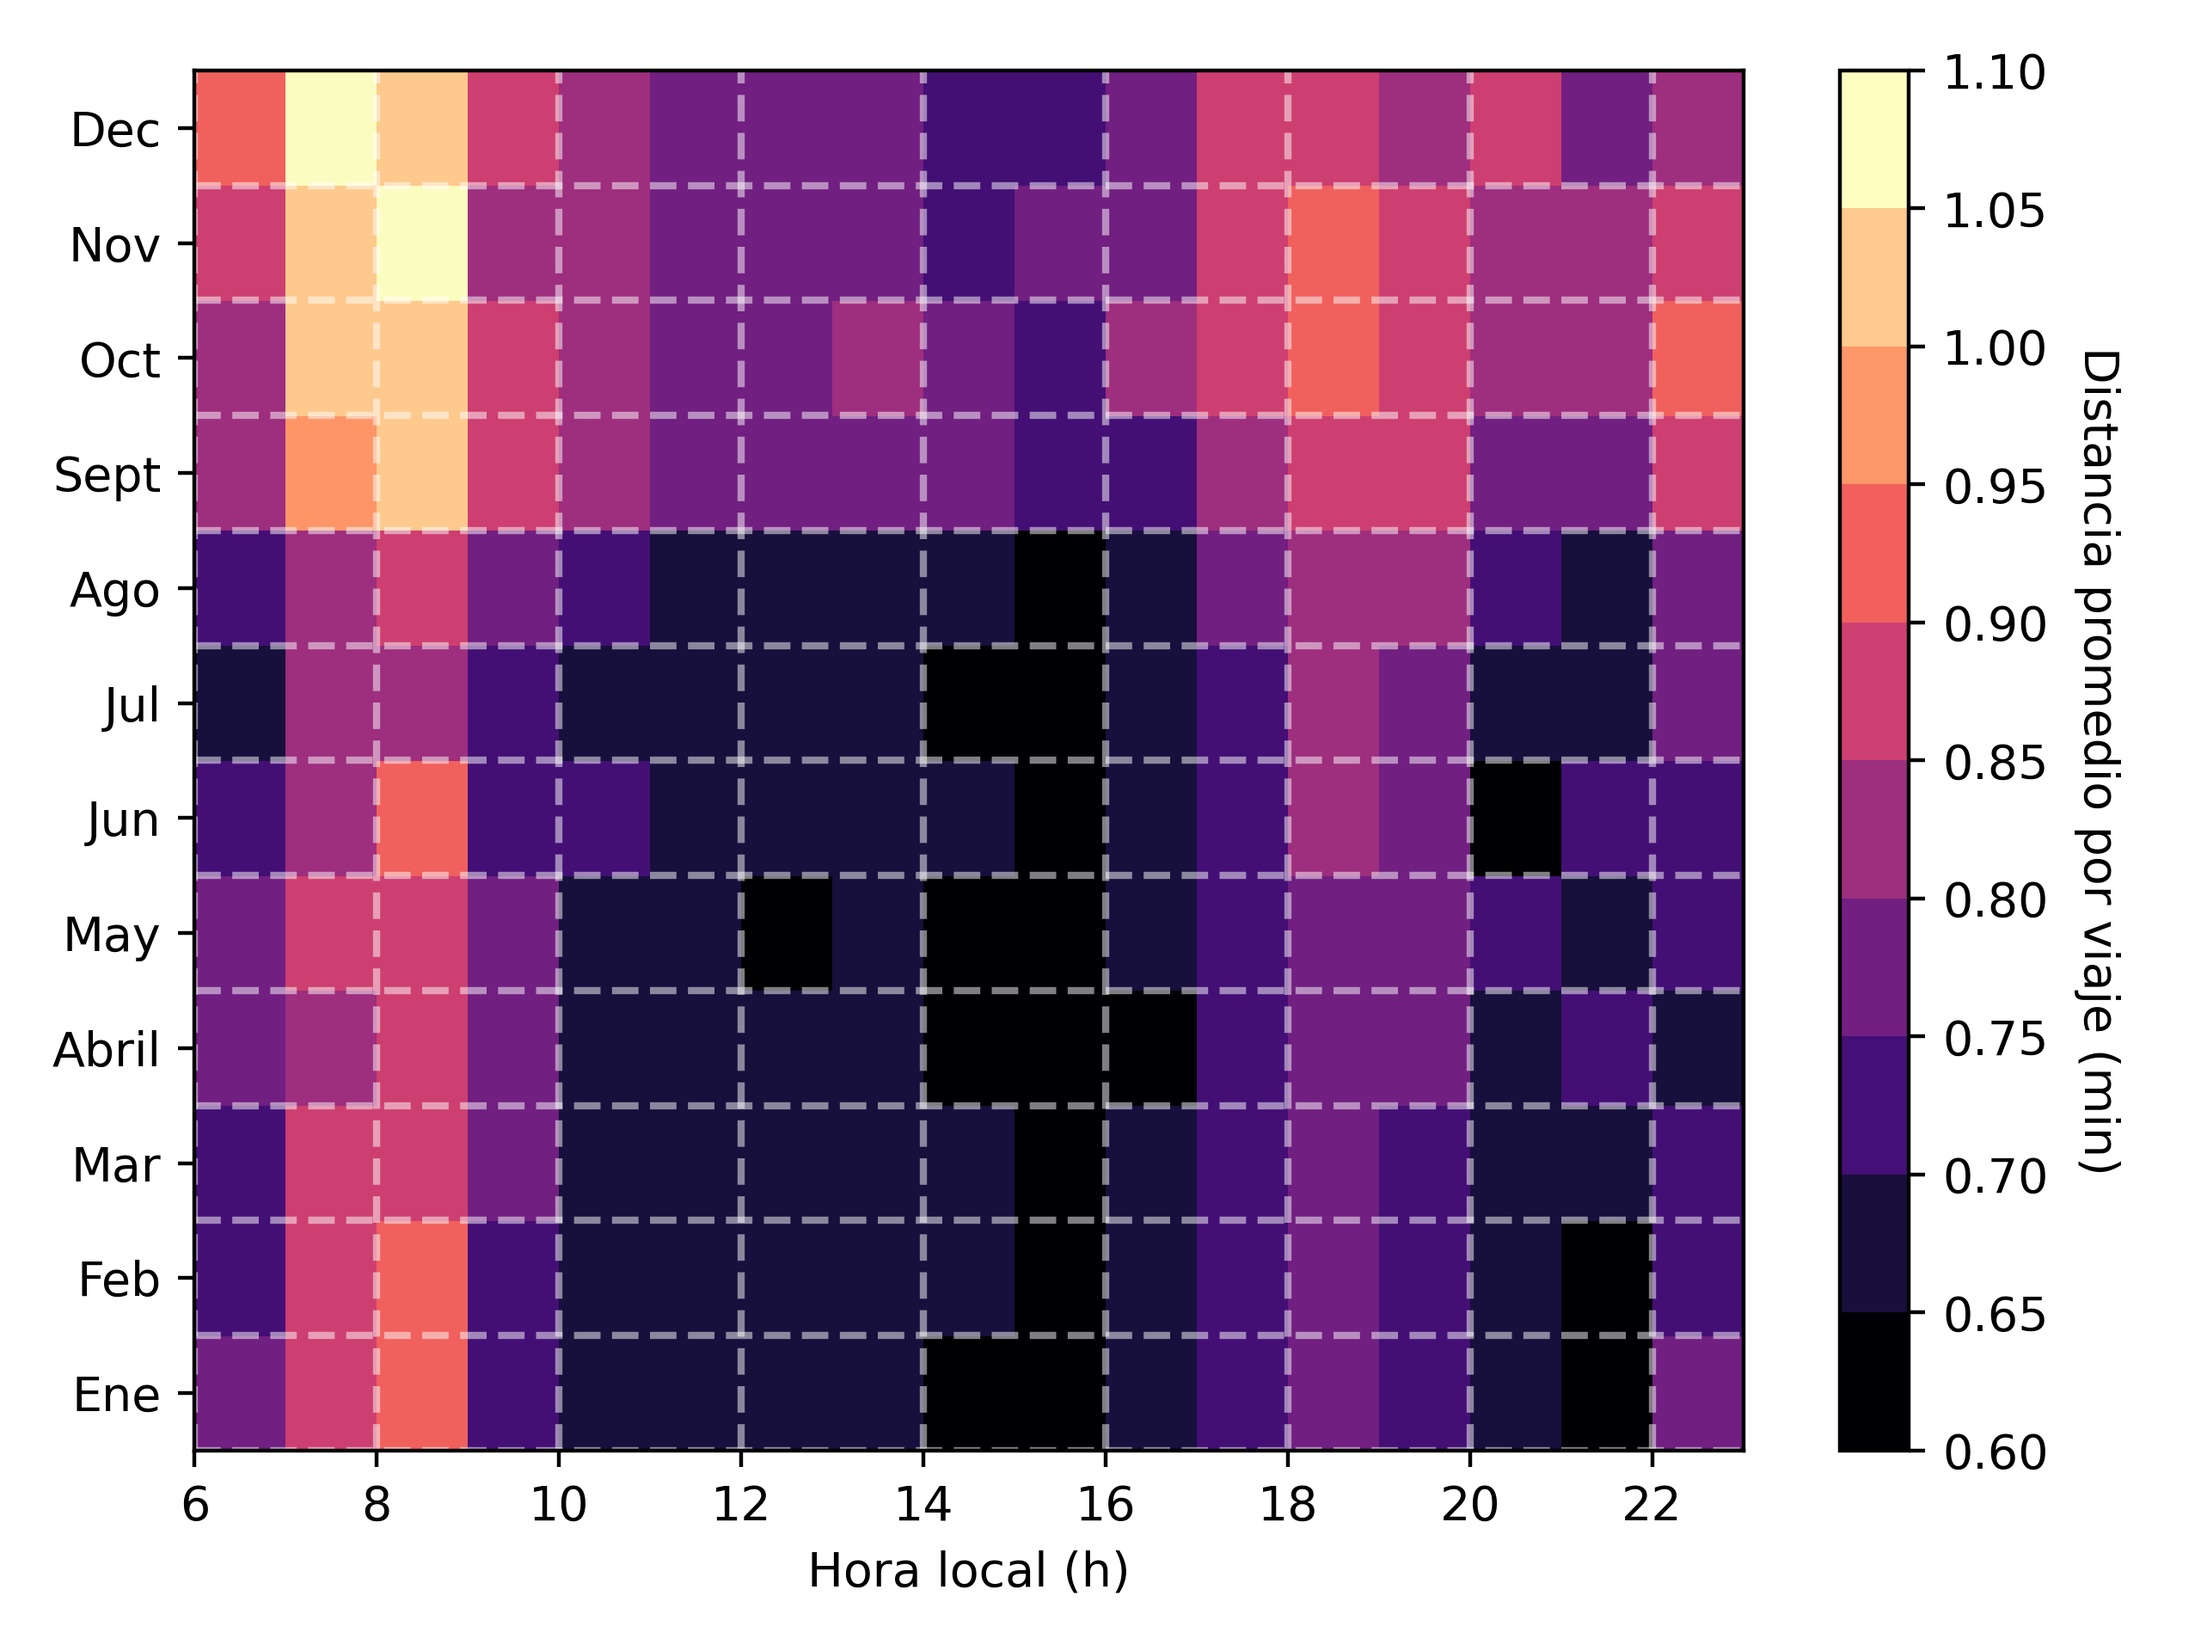
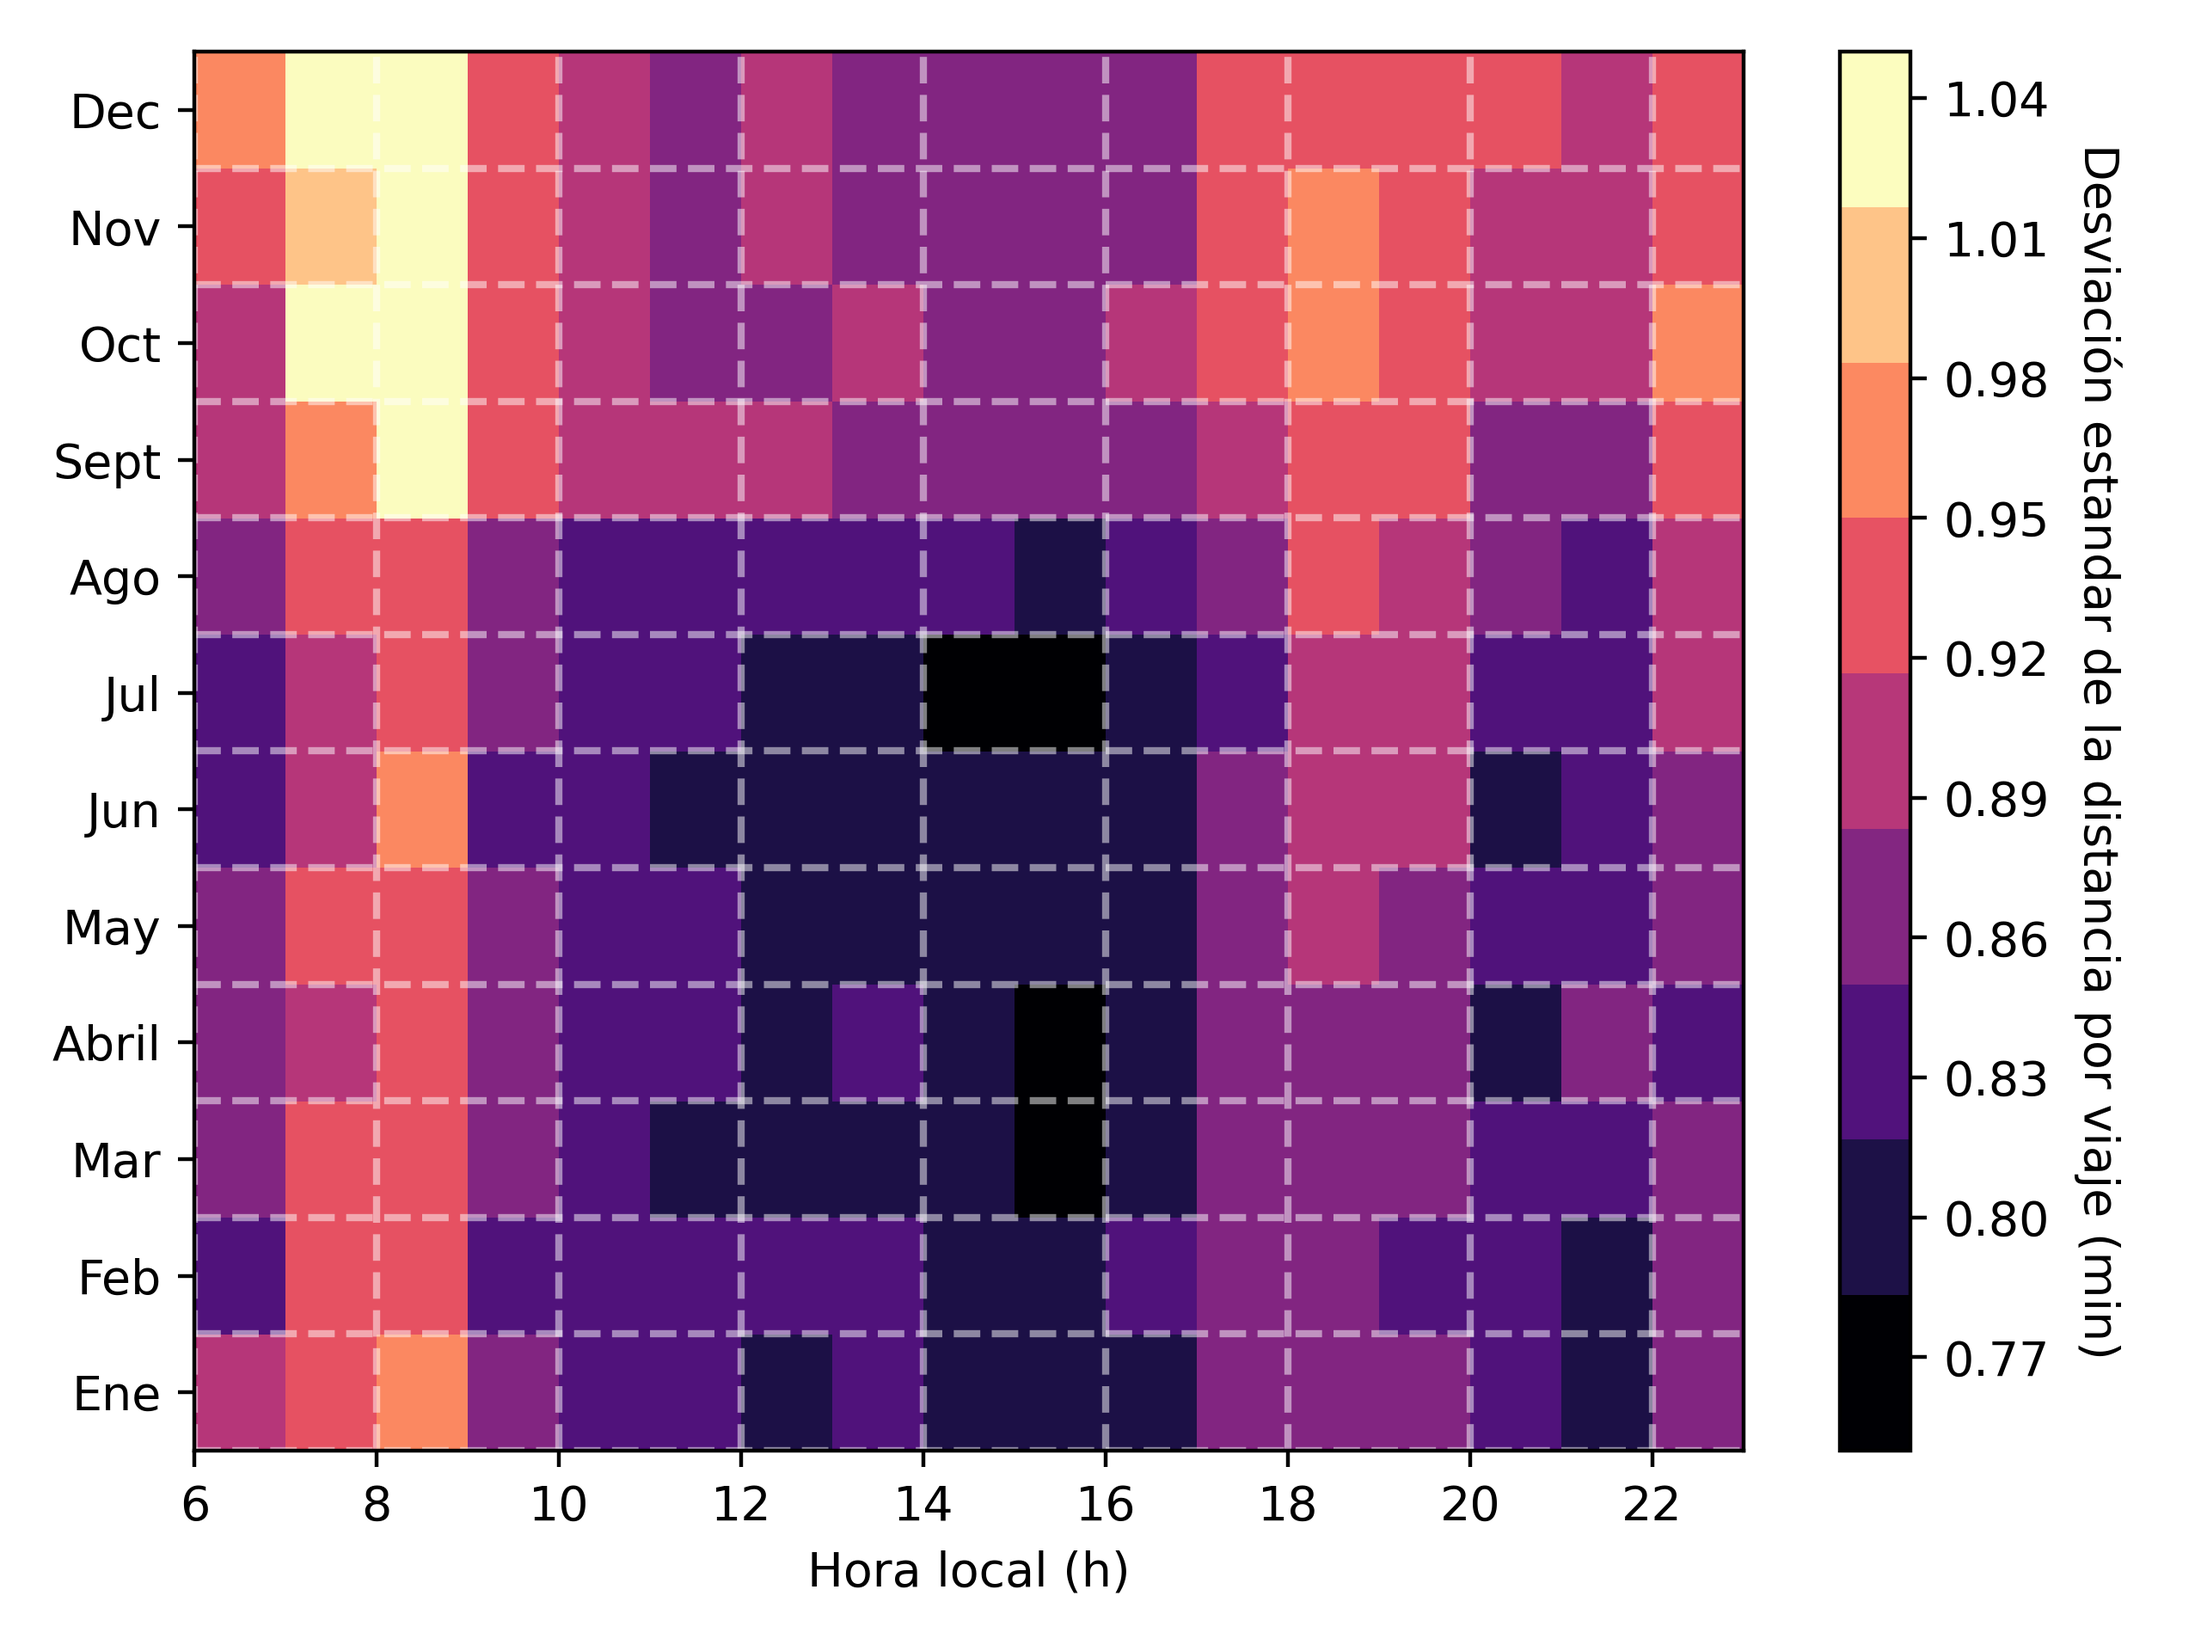
Add standar deviation graphics

diff --git a/Scripts/Graphics_daily_and_hour_var_time_travel.py b/Scripts/Graphics_daily_and_hour_var_time_travel.py
@@ -1,0 +1,77 @@
+import matplotlib.pyplot as plt
+from Functions import *
+from pylab import *
+
+
+def set_day_of_the_week(data: DataFrame, parameters: dict) -> DataFrame:
+    data["Day"] = None
+    for index in data.index:
+        date = data["Date"][index]
+        day = date.strftime("%A")
+        day_number = parameters["days"][day]
+        data.loc[index, "Day"] = day_number
+    return data
+
+
+parameters = {"path data": "../Output/",
+              "file data": "Hourly_mean_time_travel.csv",
+              "path graphics": "../Graphics/",
+              "file graphics": "daily_and_hour_var_time_travel.png",
+              "days": {"lunes": "1",
+                       "martes": "2",
+                       "miércoles": "3",
+                       "jueves": "4",
+                       "viernes": "5",
+                       "sábado": "6",
+                       "domingo": "7"}}
+
+data = read_data(parameters["path data"],
+                 parameters["file data"])
+data["Date"] = pd.to_datetime(data["Date"])
+set_day_of_the_week(data,
+                    parameters)
+data_mean = data.groupby("Day").var()
+data_mean = data_mean.sort_index()
+xticks = np.arange(-0.5, 23.5-6+2, 2)
+yticks = np.linspace(-0.5, 6.5, 8)
+yticks = np.delete(yticks, -1)
+xlabels = xticks+0.5+6
+xlabels = [int(xlabel) for xlabel in xlabels]
+data_mean = data_mean.drop(columns=[str(i) for i in range(6)])
+data_mean = data_mean.drop(columns="23")
+data_mean = np.array(data_mean)
+data_mean = np.sqrt(data_mean)
+print(np.min(data_mean))
+print(np.max(data_mean))
+cmap = cm.get_cmap('Greens', 7)
+plt.xticks(xticks,
+           xlabels)
+plt.yticks(yticks+0.5,
+           parameters["days"])
+plt.xlabel("Hora local (h)")
+plt.grid(ls="--",
+         color="#000000",
+         alpha=0.5,
+         lw=1.5,
+         axis="x")
+for ytick in yticks:
+    plt.plot([xticks[0], 16.5],
+             [ytick, ytick],
+             ls="--",
+             color="#000000",
+             alpha=0.5,
+             lw=1.5)
+plt.imshow(data_mean,
+           origin="lower",
+           cmap=cmap,
+           vmin=0,
+           vmax=420,
+           aspect='auto')
+plt.tight_layout()
+cbar = plt.colorbar(ticks=np.linspace(0, 420, 8))
+cbar.set_label("Desviación estandar del tiempo por viaje (min)",
+               rotation=-90,
+               labelpad=20)
+plt.savefig("{}{}".format(parameters["path graphics"],
+                          parameters["file graphics"]),
+            dpi=400)

diff --git a/Scripts/Graphics_daily_and_hour_var_distance.py b/Scripts/Graphics_daily_and_hour_var_distance.py
@@ -1,0 +1,75 @@
+import matplotlib.pyplot as plt
+from Functions import *
+from pylab import *
+
+
+def set_day_of_the_week(data: DataFrame, parameters: dict) -> DataFrame:
+    data["Day"] = None
+    for index in data.index:
+        date = data["Date"][index]
+        day = date.strftime("%A")
+        day_number = parameters["days"][day]
+        data.loc[index, "Day"] = day_number
+    return data
+
+
+parameters = {"path data": "../Output/",
+              "file data": "Hourly_mean_distance.csv",
+              "path graphics": "../Graphics/",
+              "file graphics": "daily_and_hour_var_distance.png",
+              "days": {"lunes": "1",
+                       "martes": "2",
+                       "miércoles": "3",
+                       "jueves": "4",
+                       "viernes": "5",
+                       "sábado": "6",
+                       "domingo": "7"}}
+
+data = read_data(parameters["path data"],
+                 parameters["file data"])
+data["Date"] = pd.to_datetime(data["Date"])
+set_day_of_the_week(data,
+                    parameters)
+data_mean = data.groupby("Day").var()
+data_mean = data_mean.sort_index()
+xticks = np.arange(-0.5, 23.5-6+2, 2)
+yticks = np.linspace(-0.5, 6.5, 8)
+yticks = np.delete(yticks, -1)
+xlabels = xticks+0.5+6
+xlabels = [int(xlabel) for xlabel in xlabels]
+data_mean = data_mean.drop(columns=[str(i) for i in range(6)])
+data_mean = data_mean.drop(columns="23")
+data_mean = np.array(data_mean)
+data_mean = np.sqrt(data_mean)
+cmap = cm.get_cmap('Greens', 8)
+plt.xticks(xticks,
+           xlabels)
+plt.yticks(yticks+0.5,
+           parameters["days"])
+plt.xlabel("Hora local (h)")
+plt.grid(ls="--",
+         color="#000000",
+         alpha=0.5,
+         lw=1.5,
+         axis="x")
+for ytick in yticks:
+    plt.plot([xticks[0], 16.5],
+             [ytick, ytick],
+             ls="--",
+             color="#000000",
+             alpha=0.5,
+             lw=1.5)
+plt.imshow(data_mean,
+           origin="lower",
+           cmap=cmap,
+           vmin=0.19,
+           vmax=0.67,
+           aspect='auto')
+plt.tight_layout()
+cbar = plt.colorbar(ticks=np.round(np.linspace(0.19, 0.67, 9), 2))
+cbar.set_label("Desviación estandar de la distancia recorrida (km)",
+               rotation=-90,
+               labelpad=15)
+plt.savefig("{}{}".format(parameters["path graphics"],
+                          parameters["file graphics"]),
+            dpi=400)

diff --git a/Scripts/Graphics_daily_and_hour_var_count_travel.py b/Scripts/Graphics_daily_and_hour_var_count_travel.py
@@ -1,0 +1,75 @@
+import matplotlib.pyplot as plt
+from Functions import *
+from pylab import *
+
+
+def set_day_of_the_week(data: DataFrame, parameters: dict) -> DataFrame:
+    data["Day"] = None
+    for index in data.index:
+        date = data["Date"][index]
+        day = date.strftime("%A")
+        day_number = parameters["days"][day]
+        data.loc[index, "Day"] = day_number
+    return data
+
+
+parameters = {"path data": "../Output/",
+              "file data": "Hourly_count_travel.csv",
+              "path graphics": "../Graphics/",
+              "file graphics": "daily_and_hour_var_count_travel.png",
+              "days": {"lunes": "1",
+                       "martes": "2",
+                       "miércoles": "3",
+                       "jueves": "4",
+                       "viernes": "5",
+                       "sábado": "6",
+                       "domingo": "7"}}
+
+data = read_data(parameters["path data"],
+                 parameters["file data"])
+data["Date"] = pd.to_datetime(data["Date"])
+set_day_of_the_week(data,
+                    parameters)
+data_mean = data.groupby("Day").var()
+data_mean = data_mean.sort_index()
+xticks = np.arange(-0.5, 23.5-6+2, 2)
+yticks = np.linspace(-0.5, 6.5, 8)
+yticks = np.delete(yticks, -1)
+xlabels = xticks+0.5+6
+xlabels = [int(xlabel) for xlabel in xlabels]
+data_mean = data_mean.drop(columns=[str(i) for i in range(6)])
+data_mean = data_mean.drop(columns="23")
+data_mean = np.array(data_mean)
+data_mean = np.sqrt(data_mean)
+cmap = cm.get_cmap('Greens', 10)
+plt.xticks(xticks,
+           xlabels)
+plt.yticks(yticks+0.5,
+           parameters["days"])
+plt.xlabel("Hora local (h)")
+plt.grid(ls="--",
+         color="#000000",
+         alpha=0.5,
+         lw=1.5,
+         axis="x")
+for ytick in yticks:
+    plt.plot([xticks[0], 16.5],
+             [ytick, ytick],
+             ls="--",
+             color="#000000",
+             alpha=0.5,
+             lw=1.5)
+plt.imshow(data_mean,
+           origin="lower",
+           cmap=cmap,
+           vmin=0,
+           vmax=100,
+           aspect='auto')
+plt.tight_layout()
+cbar = plt.colorbar(ticks=np.linspace(0, 100, 11))
+cbar.set_label("Desviación estandar del número de viajes",
+               rotation=-90,
+               labelpad=8)
+plt.savefig("{}{}".format(parameters["path graphics"],
+                          parameters["file graphics"]),
+            dpi=400)

diff --git a/Scripts/Graphics_monthly_and_hourly_var_distance.py b/Scripts/Graphics_monthly_and_hourly_var_distance.py
@@ -23,7 +23,8 @@ ylabels = ["Ene", "Feb", "Mar", "Abril", "May",
 data_mean = data_mean.drop(columns=[str(i) for i in range(6)])
 data_mean = data_mean.drop(columns="23")
 data_mean = np.array(data_mean)
-cmap = cm.get_cmap('magma', 10)
+data_mean = np.sqrt(data_mean)
+cmap = cm.get_cmap('magma', 9)
 plt.xticks(xticks,
            xlabels)
 plt.yticks(yticks+0.5,
@@ -34,12 +35,11 @@ plt.grid(ls="--",
          alpha=0.5,
          lw=1.5,
          axis="x")
-print(np.min(data_mean), np.max(data_mean))
 plt.imshow(data_mean,
            origin="lower",
            cmap=cmap,
-           vmin=0.6,
-           vmax=1.1,
+           vmin=0.75,
+           vmax=1.05,
            aspect="auto")
 for ytick in yticks:
     plt.plot([xticks[0], 16.5],
@@ -48,8 +48,8 @@ for ytick in yticks:
              color="#ffffff",
              alpha=0.5,
              lw=1.5)
-cbar = plt.colorbar(ticks=np.round(np.linspace(0.6, 1.1, 11), 2))
-cbar.set_label("Distancia promedio por viaje (min)",
+cbar = plt.colorbar(ticks=np.round(np.linspace(0.77, 1.04, 10), 2))
+cbar.set_label("Desviación estandar de la distancia por viaje (min)",
                rotation=-90,
                labelpad=15)
 plt.tight_layout()
